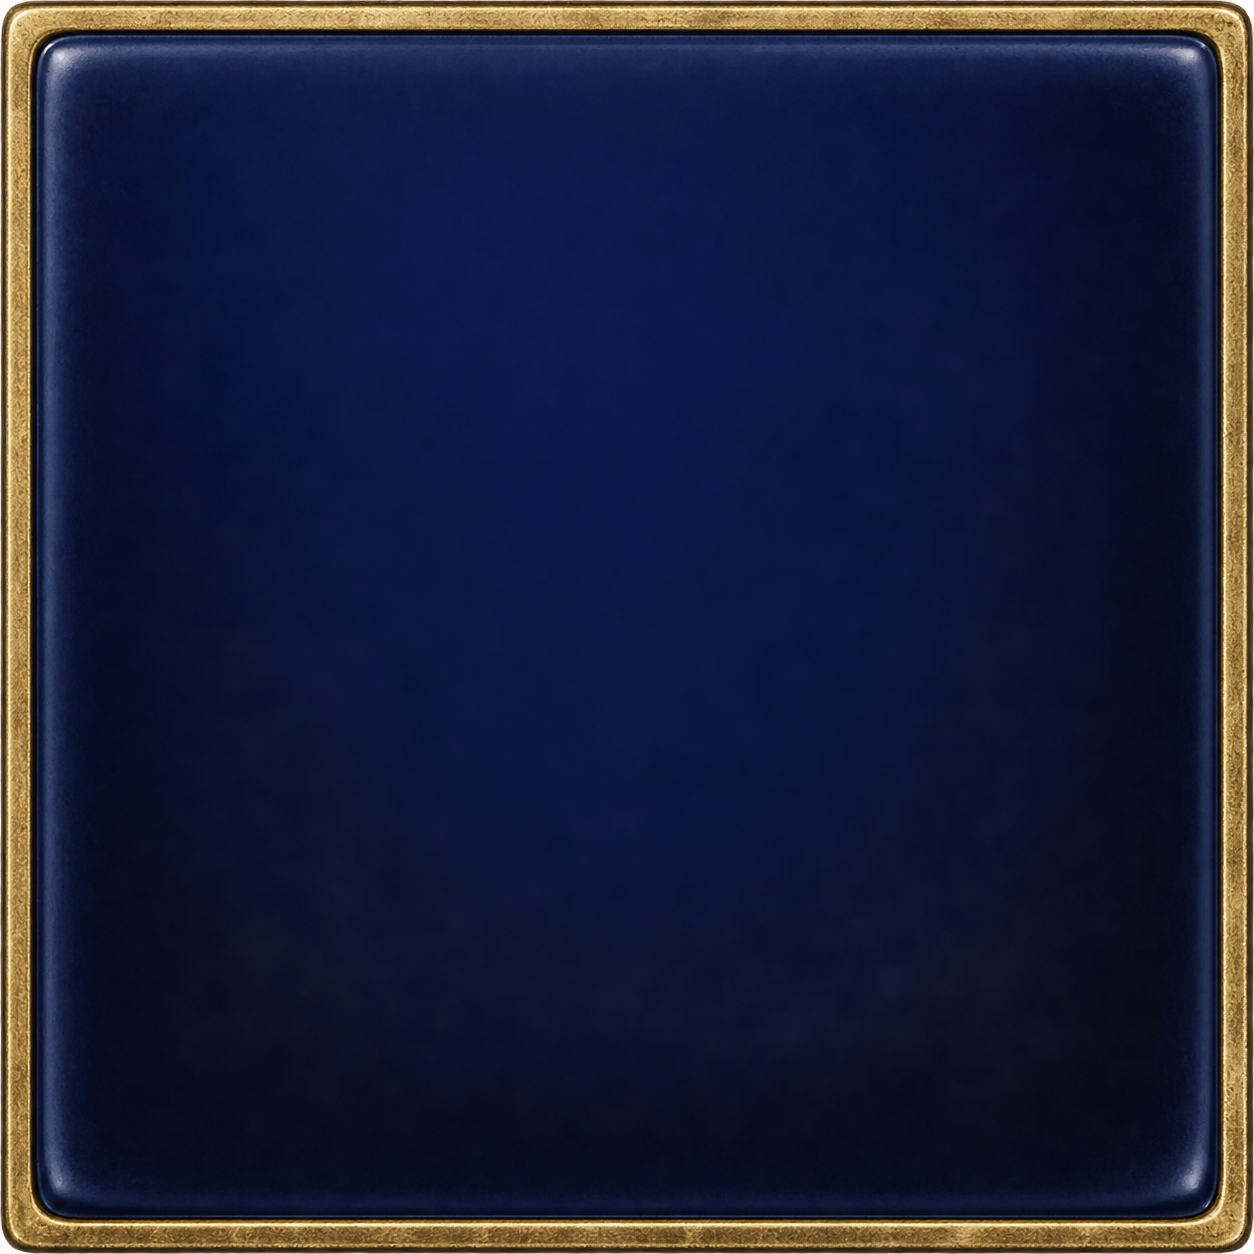
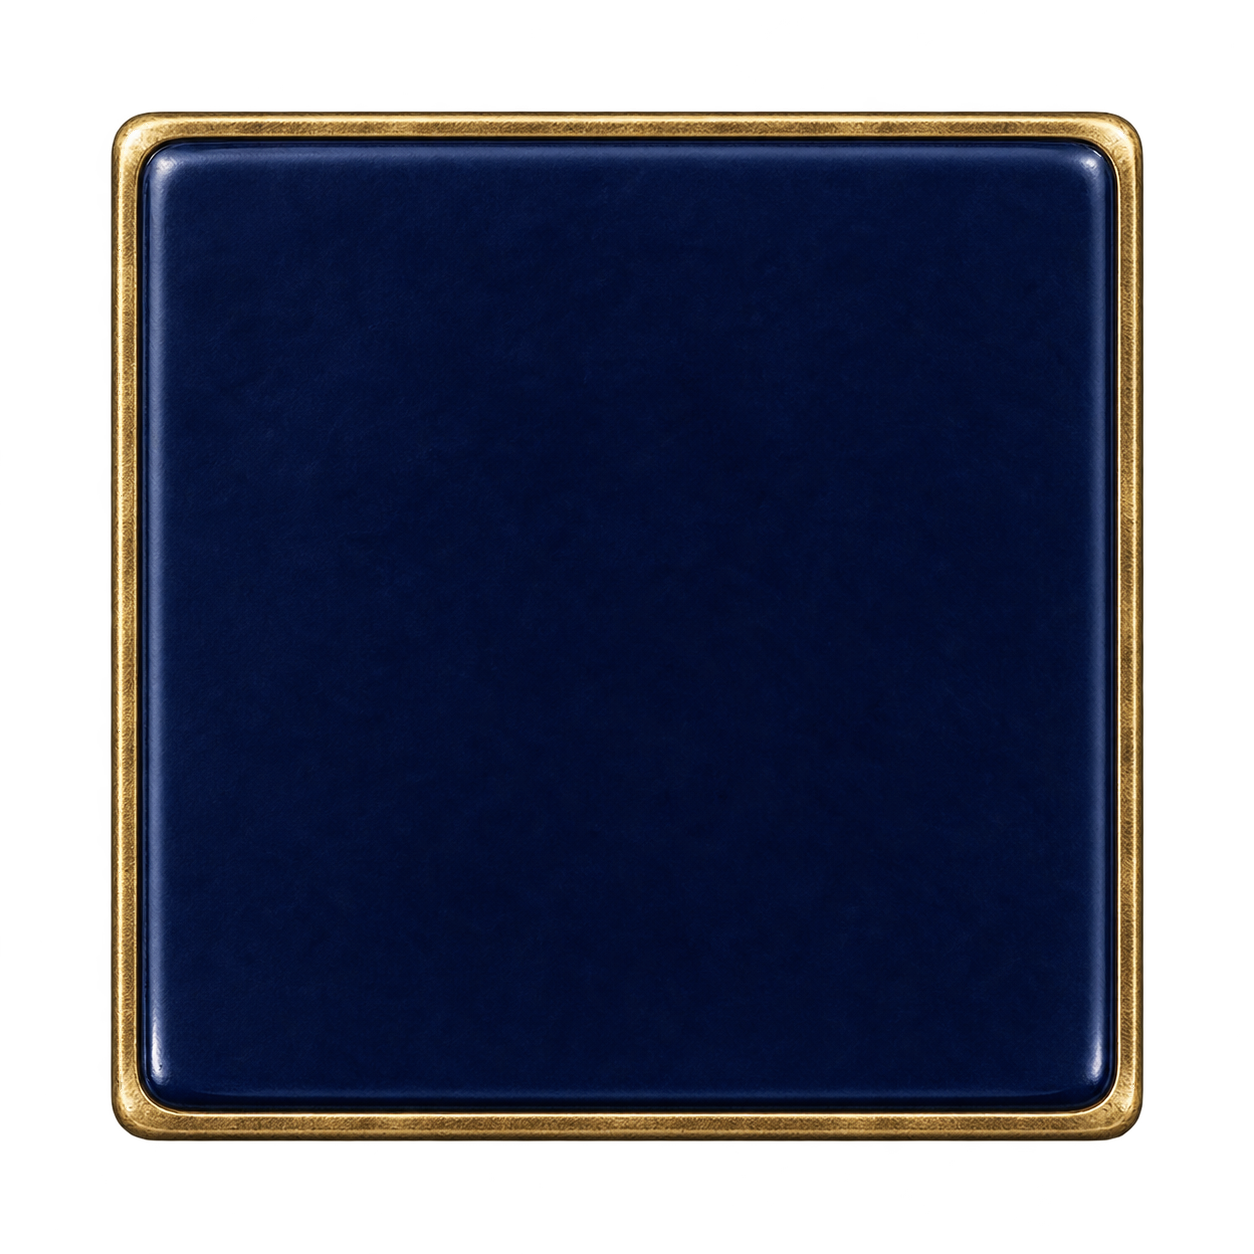
assets: fix table material review findings

diff --git a/frontend/src/assets/table/PROVENANCE.md b/frontend/src/assets/table/PROVENANCE.md
@@ -109,3 +109,88 @@ Avoid: intricate patterns, high-frequency noise, bright yellow, photographic bac
 - Project asset: `frontend/src/assets/table/tile-back-material.webp`
 
 These original generated table materials contain no copied characters, logos, text, or proprietary UI elements. They are project-local decorative assets and do not replace the separately licensed Character Pack or tile-face assets.
+
+# Review-round replacement records
+
+The following records supersede the original selected files for the named project assets. The original generation records above remain unchanged for audit history. These replacements address review-round findings without changing the asset scope.
+
+## `table-rail.webp` replacement
+
+### Fix-generation prompt
+
+```text
+Use case: stylized-concept
+Asset type: repeatable rail material for a faux-3D mahjong game table
+Primary request: create a wide dark lacquer material strip with restrained aged-gold inlay suitable for slicing across table rails
+Style/medium: premium Japanese-inspired game UI material, original and non-branded
+Composition/framing: straight-on orthographic horizontal material strip, repeatable center section, generous clean margins. Fill the entire bitmap edge-to-edge with the dark rail material; no white, light, or photographic backdrop outside the rail. Make the central 70% an explicitly uniform, edge-matching repeatable center band: uninterrupted blackened navy lacquer with only a restrained straight aged-gold inlay line at a constant height and thickness that exits identically at both crop edges. Reserve all decorative geometric motifs for mirrored left and right end caps outside that center band. There must be no central diamond, medallion, junction, or one-off ornament in the repeatable center section.
+Lighting/mood: controlled studio sheen, soft edge highlights, no cast shadow
+Color palette: blackened navy lacquer, antique muted gold, tiny warm brown undertones; no white background
+Materials/textures: smooth lacquer, lightly brushed metal, subtle age without damage
+Constraints: no text, no symbols, no logos, no characters, no mahjong tiles, no watermark, no perspective scene; center band must remain uniform and edge-matching for seamless slicing; dark lacquer continues to all four image edges
+Avoid: ornate copied motifs, bright yellow gold, jewelry-like filigree, strong reflections, central motifs, non-uniform side joins crossing into the repeatable center band, white margins, pale backdrop
+```
+
+- Method: `Pi codex_generate_image`, followed by a lossless local center-band re-export that builds a mirrored edge-matching lacquer repeat tile while preserving the generated end caps and constant inlay line.
+- Generation date: `2026-09-19`
+- Backend-reported output metadata: backend `openai-codex/gpt-5.5`, backend-selected image model, completed; size `2156x729`; quality `medium`; background `transparent`; output format `webp`.
+- Pi-generated original retained at: `.pi/generated-images/01a0ba40-2291-7233-b541-22ebc29ed17c/ig_009cba752f5fb064016aaeabc3da9c87d2910ce419653dd66e.webp`
+- Inspected pixel dimensions: `2156 × 729`.
+- Review result: the final central band is a uniform blackened-navy field with one constant-height, constant-thickness gold line that exits identically at both crop edges; a mirrored repeat tile was checked across its join with no visible seam. Decorative geometry is confined to mirrored end caps. No central diamond, one-off junction, pale backdrop, text, symbols, logos, characters, tiles, or watermark is present.
+- Project asset: `frontend/src/assets/table/table-rail.webp`
+
+These original generated table materials contain no copied characters, logos, text, or proprietary UI elements. They are project-local decorative assets and do not replace the separately licensed Character Pack or tile-face assets.
+
+## `center-device.webp` replacement
+
+### Fix-generation prompt
+
+```text
+Use case: stylized-concept
+Asset type: text-free center console surface for a digital mahjong table
+Primary request: create a square top-down center-device surface with a dark indigo body, aged-gold bevels, and four subtle directional quadrants
+Style/medium: premium original game UI prop, clean and readable at small size
+Composition/framing: exact top-down orthographic square, symmetrical around the center, empty central display area reserved for live Pixi text
+Lighting/mood: soft internal edge glow, restrained highlights
+Color palette: near-black navy, deep indigo, antique gold, minimal muted vermilion detail
+Materials/textures: lacquered composite body and brushed metal trim
+Constraints: no text, no numbers, no logos, no characters, no tiles, no watermark, no perspective; isolated asset with a genuinely transparent perimeter and clean neutral anti-aliased alpha edges; no colored matte or fringe of any kind; do not use green, red, magenta, cyan, or white in transparent edge pixels
+Avoid: copied game interfaces, overly ornate decoration, bright neon, busy center area, chromatic fringe, green/red halo, colored background matte
+```
+
+- Method: `Pi codex_generate_image`, followed by a lossless local alpha-edge decontamination re-export that copies only adjacent in-palette interior RGB into identified perimeter matte pixels and preserves alpha.
+- Generation date: `2026-09-19`
+- Backend-reported output metadata: backend `openai-codex/gpt-5.5`, backend-selected image model, completed; size `1254x1254`; quality `medium`; background `transparent`; output format `webp`.
+- Pi-generated original retained at: `.pi/generated-images/01a0ba40-2291-7233-b541-22ebc29ed17c/ig_0222ff0b16c86b49016aaeac421ad487d2aadb1af32c5916f1.webp`
+- Inspected pixel dimensions: `1254 × 1254` source and final.
+- Review result: the final alpha composite has a clean neutral perimeter with no bright green/red/magenta/cyan/white matte fringe when inspected over a light background; the indigo body, aged-gold bevels, muted vermilion quadrants, and empty central display area remain intact.
+- Project asset: `frontend/src/assets/table/center-device.webp`
+
+These original generated table materials contain no copied characters, logos, text, or proprietary UI elements. They are project-local decorative assets and do not replace the separately licensed Character Pack or tile-face assets.
+
+## `tile-back-material.webp` replacement
+
+### Fix-generation prompt
+
+```text
+Use case: stylized-concept
+Asset type: square material swatch for concealed mahjong tile backs
+Primary request: create a clean dark-indigo tile-back surface with a thin aged-gold edge treatment
+Style/medium: polished original game asset material, readable when cropped onto many small tiles
+Composition/framing: flat top-down square swatch, centered, no perspective, no external shadow; isolated asset with a genuinely transparent perimeter and clean neutral anti-aliased alpha edges
+Lighting/mood: even soft lighting, restrained bevel highlight
+Color palette: deep indigo, near-black navy, antique gold
+Materials/textures: smooth enamel center and narrow brushed-metal edge
+Constraints: no text, no symbols, no logos, no characters, no watermark; no colored matte or fringe of any kind; do not use green, red, magenta, cyan, or white in transparent edge pixels
+Avoid: intricate patterns, high-frequency noise, bright yellow, photographic background, chromatic fringe, green/red halo, colored background matte
+```
+
+- Method: `Pi codex_generate_image`, followed by a lossless local alpha-edge decontamination re-export that copies only adjacent in-palette interior RGB into identified perimeter matte pixels and preserves alpha.
+- Generation date: `2026-09-19`
+- Backend-reported output metadata: backend `openai-codex/gpt-5.5`, backend-selected image model, completed; size `1254x1254`; quality `medium`; background `transparent`; output format `webp`.
+- Pi-generated original retained at: `.pi/generated-images/01a0ba40-2291-7233-b541-22ebc29ed17c/ig_0e6c2a1258a02f77016aaeacfeeda087d2bb762cefcd2f50ef.webp`
+- Inspected pixel dimensions: `1254 × 1254` source and final.
+- Review result: the final alpha composite has a clean neutral perimeter with no bright green/red/magenta/cyan/white matte fringe when inspected over a light background; the smooth deep-indigo enamel field and narrow aged-gold edge remain readable for small concealed tiles.
+- Project asset: `frontend/src/assets/table/tile-back-material.webp`
+
+These original generated table materials contain no copied characters, logos, text, or proprietary UI elements. They are project-local decorative assets and do not replace the separately licensed Character Pack or tile-face assets.
